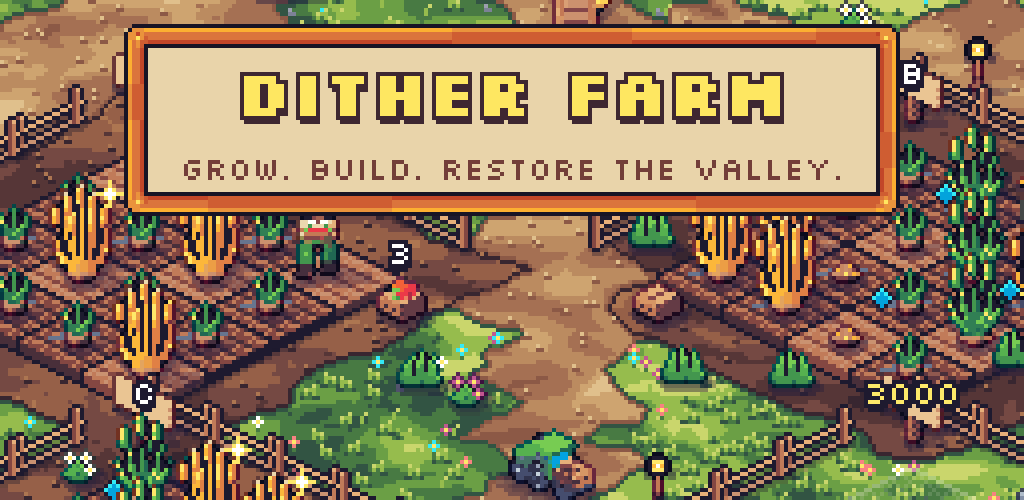
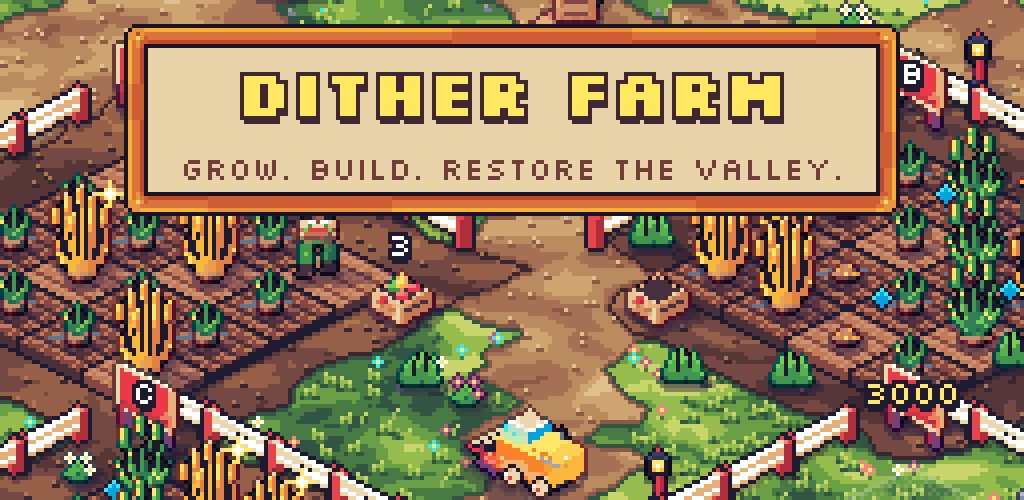
Art round 5: hand-pixeled harvester, crates, fences, field signs and lamp posts
Owner picks: the yellow combine and cream rails on red posts. The old
generators no longer emit these; the feature graphic is redrawn from the
new farm scene.

Claude-Session: https://claude.ai/code/session_01WzqNnDX2S9CAE6QnGepdXg

diff --git a/farm-game/Tools/ArtGen/pixel/farm_hand.py b/farm-game/Tools/ArtGen/pixel/farm_hand.py
@@ -14,6 +14,11 @@ nothing is copied from them.
   buildings/barn(_snow)                 the barn, with DITHER FARM painted on its roof
   buildings/silo(_snow)                 the silo
   buildings/orders(_snow)               the orders notice board
+  vehicles/harvester_se_0/1, _ne_0/1    the yellow combine (its reel turns between frames)
+  deco/crate_empty, crate_full          the field crates
+  deco/field_sign                       a field's sign (the engine letters it)
+  deco/lantern                          the lamp post (night.py picks out its glass for lantern_lit)
+  deco/fence_r, fence_l                 one tile of fence along +col / +row, pivot at the start corner
 
 Pivot = the ground centre of the footprint.
 """
@@ -521,6 +526,245 @@ def preview2(out):
     sheet.resize((sheet.width * 4, sheet.height * 4), Image.NEAREST).save(out)
 
 
+# ---------------------------------------------------------------- harvester
+
+HARVESTER = ("yellow", "amber", "orange")
+
+
+def reel(c, along_v, at, span, z, frame):
+    """The harvester's red reel: cream bats round an axle, a quarter turn apart, turning between
+    frames. along_v: the axle runs along v (at = u) or along u (at = v)."""
+    import math
+    for k in range(4):
+        a = math.pi / 2 * k + (math.pi / 4 if frame else 0)
+        du, dz = 1.6 * math.cos(a), 1.6 * math.sin(a)
+        if along_v:
+            c.vline(at + du, span[1] - span[0], span[0], z + dz, "cream" if dz > -0.5 else "tan")
+        else:
+            c.uline(span[0], span[1], at + du, z + dz, "cream" if dz > -0.5 else "tan")
+    for s in span:
+        if along_v:
+            c.line((at - 1.6, s, z), (at + 1.6, s, z), "red"); c.line((at, s, z - 1.6), (at, s, z + 1.6), "red_d")
+        else:
+            c.line((s, at - 1.6, z), (s, at + 1.6, z), "red"); c.line((s, at, z - 1.6), (s, at, z + 1.6), "red_d")
+
+
+def drum(c, u0, span, frame):
+    """The reel seen from the front-right: a slim red drum whose cream bats move round a step
+    between frames, with a red end ring and grey hub."""
+    v0, v1 = span
+    c.box(u0 + 0.4, u0 + 2.0, v0, v1, 4.4, 7.0, "red", "red_d", "purple", lit=False)
+    for z in ((5.0, 6.4) if frame == 0 else (5.7,)):
+        c.vline(u0 + 2.0, v1 - v0, v0, z, "cream")
+    if frame:
+        c.vline(u0 + 1.2, v1 - v0, v0, 7.0, "cream")
+    x, y = c.p(u0 + 1.2, v1, 5.7)
+    for dx, dy in ((-1, -2), (0, -2), (1, -1), (1, 0), (1, 1), (0, 2), (-1, 2), (-2, 1), (-2, 0), (-2, -1)):
+        c.dot(x + dx, y + dy, "red")
+    c.dot(x, y, "grey_l")
+
+
+def harvester_se(frame):
+    """Driving down-right: a tall toy combine, glass cab up front, the red header and turning reel
+    ahead of it, the unloading pipe folded back along the side."""
+    top, left, right = HARVESTER
+    L, W = 6, 4.4
+    c = Iso(44, 36, 14, 19)
+    c.line((0.6, W, 10.4), (-1.6, W + 0.4, 10.4), "grey"); c.line((0.6, W, 9.8), (-1.6, W + 0.4, 9.8), "grey_d")  # pipe
+    c.box(0.3, L - 0.3, 0.4, W - 0.4, 1, 2.5, *DARK, lit=False)
+    c.box(0, L, 0, W, 2, 9, top, left, right)                                # body
+    c.box(0.3, 3.0, 0.5, W - 0.5, 9, 9.8, top, left, right)                 # grain tank lid
+    c.zline(1.8, 1.0, 9.8, 11.6, "grey_d"); c.dot(*c.p(1.8, 1.0, 11.6), "ink")    # exhaust
+    c.uline(0, L, W, 4.0, "cream")                                           # cream stripe
+    c.wheat(*c.p(0.6, W, 8.2))
+    c.box(3.4, L, 0.7, W - 0.7, 9, 12.2, "cream", "cyan", "blue")            # glass cab, cream roof
+    c.zline(3.5, W - 0.7, 9, 12.2, "cream"); c.zline(L, W - 0.7, 9, 12.2, "cream", dx=-1)
+    x, y = c.p(4.0, W - 0.7, 11.6)
+    c.dot(x, y, "white"); c.dot(x + 1, y + 1, "white")
+    for u in (1.3, 4.4):                                                     # wheels
+        x, y = c.p(u, W, 2)
+        wheel(c, x, y + 1, frame)
+    # Header: red with cream teeth, wider than the body; the reel on arms above it.
+    c.box(L, L + 2, -0.8, W + 0.8, 0.8, 3.0, "red", "red_d", "purple")
+    c.vline(L + 2, W + 1.6, -0.8, 1.2, "cream")                              # cutter bar
+    for v in (-0.8, W + 0.8):
+        c.line((L - 0.2, v, 7.6), (L + 1.2, v, 5.7), "red_d")
+    drum(c, L + 0.2, (-0.8, W + 0.8), frame)
+    soften(c.im)
+    return c, c.pivot(L / 2, W / 2)
+
+
+def harvester_ne(frame):
+    """Driving away up-right: the right side and the back show; the header and reel peek out
+    past the cab at the far end."""
+    top, left, right = HARVESTER
+    L, W = 6, 4.4
+    c = Iso(44, 36, 22, 14)
+    # Length runs along v: header and reel at the far end (small v), the tank at the back.
+    c.box(-0.8, W + 0.8, -2, 0, 0.8, 3.0, "red", "red_d", "purple")
+    reel(c, False, -1.2, (-0.8, W + 0.8), 5.4, frame)
+    c.box(0.4, W - 0.4, 0.3, L - 0.3, 1, 2.5, *DARK, lit=False)
+    c.box(0, W, 0, L, 2, 9.4, top, left, right)
+    c.box(0.7, W - 0.7, 0, 2.6, 9.4, 12.6, "cream", "blue", "cyan")          # glass cab
+    c.zline(W - 0.7, 2.6, 9.4, 12.6, "cream")
+    c.box(0.5, W - 0.5, 3.0, L - 0.3, 9.4, 10.2, top, left, right)           # tank lid
+    c.zline(1.0, 4.6, 10.2, 12.4, "grey_d"); c.dot(*c.p(1.0, 4.6, 12.4), "ink")
+    c.vline(W, L, 0, 4.0, "cream")
+    c.line((W, L - 0.6, 10.0), (W + 0.4, L + 1.6, 10.0), "grey")             # pipe
+    x, y = c.p(W / 2 - 0.4, L, 8.6)
+    c.wheat(x - 2, y)
+    for v in (1.6, 4.7):
+        x, y = c.p(W, v, 2)
+        wheel(c, x, y + 1, frame)
+    soften(c.im)
+    return c, c.pivot(W / 2, L / 2)
+
+
+# ---------------------------------------------------------------- crates, fence, sign, lamp
+
+def crate(full):
+    """A slatted produce crate with cream corner battens and a red stamp; full ones are heaped."""
+    c = Iso(22, 22, 11, 12)
+    S = 3.6
+    c.box(-S / 2, S / 2, -S / 2, S / 2, 0, 5, "tan", "tan", "brown_l")
+    c.poly([(-S / 2 + 0.5, -S / 2 + 0.5, 5), (S / 2 - 0.5, -S / 2 + 0.5, 5), (S / 2 - 0.5, S / 2 - 0.5, 5), (-S / 2 + 0.5, S / 2 - 0.5, 5)], "brown_d")
+    c.uline(-S / 2, S / 2, S / 2, 2.5, "brown_l"); c.vline(S / 2, S, -S / 2, 2.5, "brown_d")   # slat gaps
+    c.zline(S / 2, S / 2, 0, 5, "cream", dx=-1); c.zline(S / 2, S / 2, 0, 5, "tan")
+    c.zline(-S / 2, S / 2, 0, 5, "cream")
+    x, y = c.p(-0.6, S / 2, 4.2)
+    c.dot(x, y, "red"); c.dot(x + 1, y, "red"); c.dot(x, y + 1, "red"); c.dot(x + 1, y + 1, "red_d")
+    if full:
+        for u, v, z, light, dark in ((-0.7, -0.7, 5.6, "orange", "rust"), (0.6, -0.7, 6.2, "pink", "red"),
+                                     (-0.6, 0.6, 5.8, "green", "green_d"), (0.6, 0.6, 5.6, "pink", "red"),
+                                     (0, 0, 6.8, "yellow", "amber")):
+            x, y = c.p(u, v, z)
+            for dx, dy, col in ((0, -1, light), (-1, 0, light), (0, 0, light), (1, 0, dark), (-1, 1, dark), (0, 1, dark), (1, 1, dark)):
+                c.dot(x + dx, y + dy, col)
+    soften(c.im)
+    return c, c.pivot(0, 0)
+
+
+def fence(along_u):
+    """One tile of fence from a tile corner: two cream rails between chunky red posts with cream
+    caps. Posts sit flush with both ends, so neighbouring segments share one chunky post."""
+    rail, post = ("white", "cream", "tan"), ("red", "red", "red_d")
+    c = Iso(20, 20, 2 if along_u else 18, 9)
+    ends = ((0, 0.7), (7.3, 8))
+
+    def p_box(a, b):
+        if along_u:
+            c.box(a, b, -0.35, 0.35, 0, 7.5, *post)
+        else:
+            c.box(-0.35, 0.35, a, b, 0, 7.5, *post)
+        x, y = c.p((a + b) / 2, 0, 7.5) if along_u else c.p(0, (a + b) / 2, 7.5)
+        c.dot(x, y, "cream"); c.dot(x - 1, y, "cream")
+    p_box(*ends[0])
+    for z0 in (2.4, 5.2):
+        if along_u:
+            c.box(0.7, 7.3, -0.2, 0.2, z0, z0 + 1.3, *rail)
+        else:
+            c.box(-0.2, 0.2, 0.7, 7.3, z0, z0 + 1.3, *rail)
+    p_box(*ends[1])
+    return c, c.p(0, 0, 0)
+
+
+def field_sign():
+    """A red board in a cream frame on two red legs; the engine letters the board in white."""
+    c = Iso(22, 26, 11, 20)
+    B = 3.4
+    for u in (-B + 0.6, B - 1.1):
+        c.box(u, u + 0.5, -0.2, 0.2, 0, 6, "red_d", "red_d", "purple")
+    c.box(-B, B, -0.2, 0.2, 5, 15.6, "cream", "cream", "tan")
+    c.poly([(-B + 0.6, 0.2, 5.8), (B - 0.6, 0.2, 5.8), (B - 0.6, 0.2, 14.8), (-B + 0.6, 0.2, 14.8)], "red")
+    c.uline(-B + 0.6, B - 0.6, 0.2, 6.6, "red_d")
+    soften(c.im)
+    return c, c.pivot(0, 0)
+
+
+LAMP = [
+    "...r...",
+    "..sss..",
+    ".sSSSs.",
+    ".iyyyi.",
+    ".iyWyi.",
+    ".iAyAi.",
+    ".iiiii.",
+    "...rR..",
+    "...rR..",
+    "...rR..",
+    "...rR..",
+    "...rR..",
+    "..sSs..",
+    "..sss..",
+]
+LAMP_KEY = {"r": "red", "R": "red_d", "s": "slate", "S": "slate_d", "i": "ink", "y": "yellow", "W": "white", "A": "amber"}
+
+
+def lantern():
+    """The farm lamp post: a red post, a slate cap and foot, warm glass (picked out at night)."""
+    c = Iso(7, len(LAMP), 3, len(LAMP) - 1)
+    for y, row in enumerate(LAMP):
+        for x, ch in enumerate(row):
+            if ch in LAMP_KEY:
+                c.dot(x, y, LAMP_KEY[ch])
+    return c, (3, len(LAMP) - 1)
+
+
+def preview3(out):
+    """Batch 3 (harvester, crates, fence, field sign, lamp): today's sprite then the options, 5x."""
+    from PIL import Image, ImageDraw
+    sys.path.insert(0, os.path.join(os.path.dirname(os.path.abspath(__file__)), ".."))
+    import polish
+    art = os.path.join(os.path.dirname(os.path.abspath(__file__)), "..", "..", "..", "app", "src", "main", "assets", "art")
+    man = json.load(open(os.path.join(art, "manifest.json")))
+    hand = Image.open(os.path.join(art, "people/hana_se_idle.png")).convert("RGBA")
+    hp = man["people/hana_se_idle"]
+    rows = [[("vehicles/harvester_se_0", None, "NOW"), ("vehicles/harvester_se_0", lambda: harvester_se(0), "new"),
+             ("vehicles/harvester_ne_0", lambda: harvester_ne(0), "away")],
+            [("deco/crate_full", None, "NOW"), ("deco/crate_empty", lambda: crate(False), "new"),
+             ("deco/crate_full", lambda: crate(True), "full"), ("deco/field_sign", None, "NOW"),
+             ("deco/field_sign", field_sign, "new"), ("deco/lantern", None, "NOW"), ("deco/lantern", lantern, "new")]]
+    sheet = Image.new("RGBA", (420, 190), (62, 137, 72, 255))
+    d = ImageDraw.Draw(sheet)
+
+    def place(name, fn, ax, ay):
+        if fn is None:
+            im = Image.open(os.path.join(art, name + ".png")).convert("RGBA")
+            p = man[name]
+            sheet.alpha_composite(im, (ax - p["ax"], ay - p["ay"]))
+            return
+        cnv, (px_, py_) = fn()
+        x0, y0, x1, y1 = cnv.im.getbbox()
+        body, pad = finish(cnv.im.crop((x0, y0, x1, y1)))
+        sys.stderr.write("%s bh %d\n" % (name, body.height))
+        if polish.kind_of(name):
+            body = polish.polish(body, polish.kind_of(name), name)
+        sheet.alpha_composite(body, (ax - (px_ - x0 + pad), ay - (py_ - y0 + pad)))
+    for ri, (row, cw) in enumerate(zip(rows, (84, 60))):
+        for i, (name, fn, label) in enumerate(row):
+            ax, ay = i * cw + cw // 2 + 4, ri * 66 + 52
+            d.text((i * cw + 2, ri * 66 + 1), label, fill=(255, 255, 255, 255))
+            sheet.alpha_composite(hand, (ax - 24 - hp["ax"], ay - hp["ay"]))
+            place(name, fn, ax, ay)
+            if name == "deco/field_sign":
+                for dx, dy in ((0, 0), (1, 0), (2, 0), (0, 1), (2, 1), (0, 2), (1, 2), (2, 2), (0, 3), (2, 3), (0, 4), (2, 4)):
+                    sheet.putpixel((ax - 1 + dx, ay - 14 + dy), (255, 255, 255, 255))   # the engine's letter
+    # Fences: a field corner of each paint (today, cream rails, red rails).
+    for k, paint in enumerate((None, "new")):
+        bx, by = 56 + k * 136, 158
+        d.text((bx - 36, by - 16), "fence NOW" if paint is None else "fence " + paint, fill=(255, 255, 255, 255))
+        for i in range(3):
+            for along_u in (True, False):
+                name = "deco/fence_r" if along_u else "deco/fence_l"
+                ox, oy = (bx + 16 * i, by - 8 + 8 * i) if along_u else (bx - 16 * i - 16, by - 8 - 8 * i + 8 * 1 - 8)
+                if along_u:
+                    ox, oy = bx + 16 * i, by - 8 + 8 * i
+                else:
+                    ox, oy = bx - 16 * i, by - 8 + 8 * i
+                place(name, None if paint is None else (lambda a=along_u: fence(a)), ox, oy)
+    sheet.resize((sheet.width * 5, sheet.height * 5), Image.NEAREST).save(out)
+
+
 def emit(sp, name, made):
     cnv, (px, py) = made
     x0, y0, x1, y1 = cnv.im.getbbox()
@@ -536,11 +780,21 @@ def main():
         emit(veh, f"truck_se_{f}", truck_se(f))
         emit(veh, f"truck_ne_{f}", truck_ne(f))
     emit(veh, "truck_load", truck_load())
+    for f in (0, 1):
+        emit(veh, f"harvester_se_{f}", harvester_se(f))
+        emit(veh, f"harvester_ne_{f}", harvester_ne(f))
+    deco = Sprites(art, "deco")
+    emit(deco, "crate_empty", crate(False))
+    emit(deco, "crate_full", crate(True))
+    emit(deco, "field_sign", field_sign())
+    emit(deco, "lantern", lantern())
+    emit(deco, "fence_r", fence(True))
+    emit(deco, "fence_l", fence(False))
     for name, fn in (("barn", barn), ("silo", silo), ("orders", orders), ("workbench", workbench), ("well", well), ("market", market)):
         emit(bld, name, fn(False))
         emit(bld, name + "_snow", fn(True))
     pivots = {}
-    for sp in (veh, bld):
+    for sp in (veh, bld, deco):
         pivots.update(sp.pivots)
     print(json.dumps(pivots))
 
@@ -586,5 +840,7 @@ if __name__ == "__main__":
         preview(sys.argv[2])
     elif len(sys.argv) > 2 and sys.argv[1] == "--preview2":
         preview2(sys.argv[2])
+    elif len(sys.argv) > 2 and sys.argv[1] == "--preview3":
+        preview3(sys.argv[2])
     else:
         main()

diff --git a/farm-game/Tools/ArtGen/pixel/deco.py b/farm-game/Tools/ArtGen/pixel/deco.py
@@ -1,5 +1,5 @@
 """Standing decorations scattered on the ground: tall grass (2 sway frames), flower
-clumps, bushes, rocks, stumps, logs, mushrooms, lanterns, iso fences, butterflies.
+clumps, bushes, rocks, stumps, logs, mushrooms, butterflies (lamp posts and fences: farm_hand.py).
 Pivot = where the object touches the ground (bottom centre), after the 2px pad.
 """
 import os
@@ -112,49 +112,8 @@ MUSHROOMS = [
 ]
 MUSH_KEY = {"r": "red", "w": "white", "c": "cream"}
 
-LANTERN = [
-    ".iii.",
-    "iyyyi",
-    "iYwYi",
-    "iyyyi",
-    ".iii.",
-    "..b..",
-    "..b..",
-    "..b..",
-    "..b..",
-    "..B..",
-    "..B..",
-    ".bBb.",
-]
-LANTERN_KEY = {"i": "ink", "y": "yellow", "Y": "amber", "w": "white", "b": "brown_l", "B": "brown"}
-
 BUTTERFLY_A = ["p.p", "pkp", ".k."]
 BUTTERFLY_B = [".p.", "pkp", ".k."]
-
-
-def fence(direction):
-    """Iso fence segment one tile long. direction 1: along +col (down-right), -1: along +row (down-left)."""
-    w, h = 18, 16
-    im = new(w, h)
-    px = im.load()
-    x0 = 0 if direction == 1 else w - 1
-    for i in range(17):
-        x = x0 + i * direction
-        y = 7 + i // 2
-        for rail in (0, 4):
-            if 0 <= x < w and 0 <= y - rail < h:
-                px[x, y - rail] = E["tan"] if rail == 4 else E["tan_d"]
-    for i in (1, 15):
-        x = x0 + i * direction
-        top = 7 + i // 2 - 7
-        for y in range(top, top + 9):
-            for dx in (0, direction):
-                xx = x + dx
-                if 0 <= xx < w and 0 <= y < h:
-                    px[xx, y] = E["brown_l"] if dx == 0 else E["brown"]
-        if 0 <= x < w and 0 <= top < h:
-            px[x, top] = E["tan"]
-    return im
 
 
 def snowy(body):
@@ -225,11 +184,7 @@ def main():
     save(s, "stump", from_map(STUMP, STUMP_KEY))
     save(s, "log", from_map(LOG, {**STUMP_KEY, "r": "brown_l"}))
     save(s, "mushrooms", from_map(MUSHROOMS, MUSH_KEY))
-    save(s, "lantern", from_map(LANTERN, LANTERN_KEY))
-    # Fences: pivot at the segment's start tile corner so segments chain along tile edges.
-    for name, d in (("fence_r", 1), ("fence_l", -1)):
-        im, pad = finish(fence(d))
-        s.save(name, im, (0 if d == 1 else 17) + pad, 7 + pad)
+    # The lamp post and the fences are hand-pixeled in farm_hand.py (art round 5).
     for name, rows in (("butterfly_a", BUTTERFLY_A), ("butterfly_b", BUTTERFLY_B)):
         im, pad = finish(from_map(rows, {"p": "pink", "k": "ink"}), outline=False, shadow=False)
         s.save(name, im, 1 + pad, 1 + pad)

diff --git a/farm-game/Tools/ArtGen/pixel/village.py b/farm-game/Tools/ArtGen/pixel/village.py
@@ -735,10 +735,8 @@ def main():
     bld = Sprites(art, "buildings")
     deco = Sprites(art, "deco")
 
-    for heading in ("se", "ne"):
-        for frame in (0, 1):
-            emit(veh, f"harvester_{heading}_{frame}", harvester(heading, frame))
-    # The pickup truck and its load are hand-pixeled in farm_hand.py (art round 5).
+    # The pickup truck and its load, the harvester, the field sign and the crates are
+    # hand-pixeled in farm_hand.py (art round 5).
 
     emit(bld, "cottage_a", cottage_a())
     emit(bld, "cottage_b", cottage_b())
@@ -747,9 +745,6 @@ def main():
     emit(deco, "bridge", bridge())
     emit(deco, "sign_forest", signpost(TREE_ICON))
     emit(deco, "sign_mine", signpost(PICK_ICON))
-    emit(deco, "field_sign", field_sign())
-    emit(deco, "crate_empty", crate(False))
-    emit(deco, "crate_full", crate(True))
     emit(deco, "hay_bale", hay_bale())
     emit(deco, "trough", trough())
 

diff --git a/farm-game/Tools/ArtGen/scaled.py b/farm-game/Tools/ArtGen/scaled.py
@@ -41,8 +41,6 @@ SCALE = {
     "merchant_cart": ("machines_wild", "buildings", 0.65),
     "logging_hut": ("machines_wild", "buildings", 0.9),
     "tree_nursery": ("machines_wild", "buildings", 0.72),
-    "harvester": ("village", "vehicles", 0.7),
-    "crate": ("village", "deco", 0.72),
 }
 
 _mods = {}

diff --git a/farm-game/Docs/DECISIONS.md b/farm-game/Docs/DECISIONS.md
@@ -5,7 +5,7 @@ Answers the owner gave while scoping the game. `GAME_DESIGN.md` must follow thes
 ## Platform and presentation
 - Native Android (Kotlin, custom Canvas renderer). No Unity.
 - Portrait, isometric view. Tap the farm directly (Hay Day style); there is no avatar.
-- Pixel art: 32px, Endesga-32 palette, checker dithering, black outline, hard drop shadow. Art round 3 (sharp and clean, inspired by a lush reference but without its blur): a wider palette with hue shifting (shadows cooler, highlights warmer), no dithering (clean steps), coloured outlines, crisp see-through cast shadows to the lower right with sun spots under trees, leaf-cluster foliage, and posterised ground patches with grass clumps. World sprites and items get this from Tools/ArtGen/polish.py; art round 4 gives UI icons, panels, buttons and villager portraits the same clean look (9-slice sizes and corners unchanged). Rocks (picked from three styles): ore-coloured rocks about a farmhand wide and knee high, three shape variants each; ore and stone item icons match. The Mine Mouth is a timber tunnel cut into a grass-topped block that joins the quarry cliffs. Art round 5 (owner pick: a hand-pixeled redo of the main farm, Dither Farm's own painted-toy look): flat bold paint, chunky rounded silhouettes and a lit edge on every top, with three signature marks repeated across the farm: the barn's red-and-cream trim, the wheat-sheaf emblem from the app icon and hand-painted names. Drawn pixel by pixel on the iso grid (Tools/ArtGen/pixel/_iso.py, farm_hand.py), in batches the owner sees first; the pickup truck and its load, the workbench, the well and the market stall came first, then the barn (owner pick of three: DITHER FARM painted on its slate roof, a wheat barn-quilt on the wall, the wheat on the cupola), a cream silo with red hoops and dome, and the orders board; all sized to the scale bands. Reference packs the owner shared were looked at for readability only; nothing is copied from them.
+- Pixel art: 32px, Endesga-32 palette, checker dithering, black outline, hard drop shadow. Art round 3 (sharp and clean, inspired by a lush reference but without its blur): a wider palette with hue shifting (shadows cooler, highlights warmer), no dithering (clean steps), coloured outlines, crisp see-through cast shadows to the lower right with sun spots under trees, leaf-cluster foliage, and posterised ground patches with grass clumps. World sprites and items get this from Tools/ArtGen/polish.py; art round 4 gives UI icons, panels, buttons and villager portraits the same clean look (9-slice sizes and corners unchanged). Rocks (picked from three styles): ore-coloured rocks about a farmhand wide and knee high, three shape variants each; ore and stone item icons match. The Mine Mouth is a timber tunnel cut into a grass-topped block that joins the quarry cliffs. Art round 5 (owner pick: a hand-pixeled redo of the main farm, Dither Farm's own painted-toy look): flat bold paint, chunky rounded silhouettes and a lit edge on every top, with three signature marks repeated across the farm: the barn's red-and-cream trim, the wheat-sheaf emblem from the app icon and hand-painted names. Drawn pixel by pixel on the iso grid (Tools/ArtGen/pixel/_iso.py, farm_hand.py), in batches the owner sees first; the pickup truck and its load, the workbench, the well and the market stall came first, then the barn (owner pick of three: DITHER FARM painted on its slate roof, a wheat barn-quilt on the wall, the wheat on the cupola), a cream silo with red hoops and dome, and the orders board; then a yellow combine with a red header and turning reel, slatted crates with a red stamp, cream-railed fences on red posts (neighbouring segments share one chunky post), red field signs in a cream frame and red lamp posts. All sized to the scale bands. Reference packs the owner shared were looked at for readability only; nothing is copied from them.
 - Font: Silkscreen (OFL).
 - SFX only, no music. Haptics with a settings toggle.
 - App name: **Dither Farm**. The APK is built by GitHub Actions.
